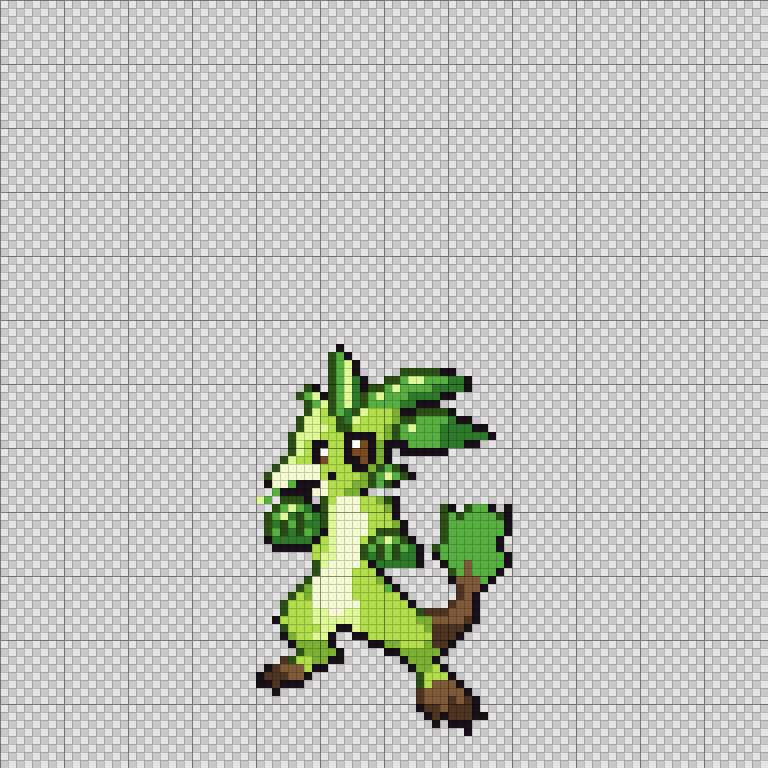
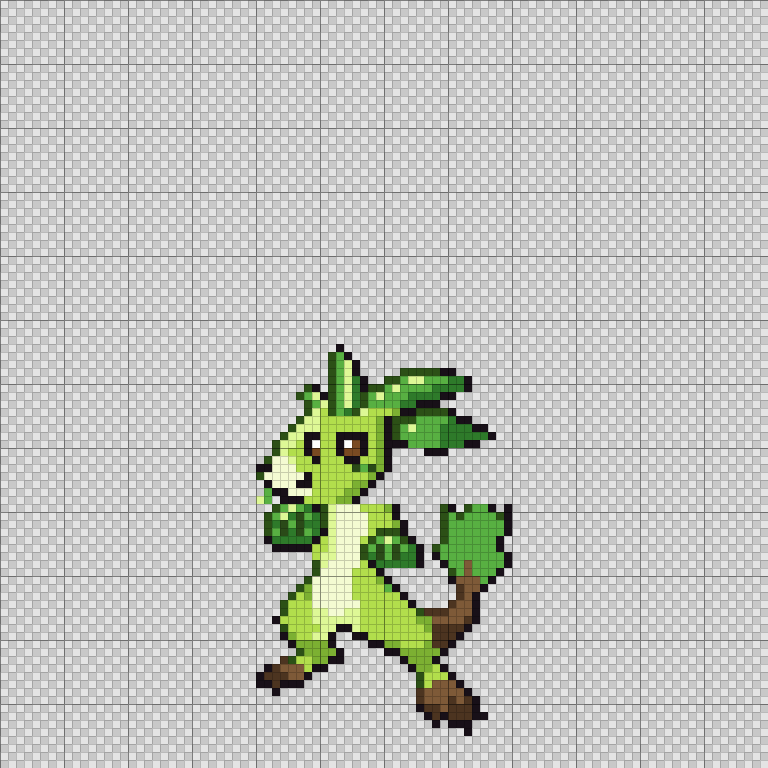
Sprigby: redraw the face with a real snout, nose and eyes
Claude-Session: https://claude.ai/code/session_01NDaBcuNY8LLNS1rzT9Z9Co

Changed region(s): [[0.3125, 0.5312, 0.5625, 0.6562]]

diff --git a/art/creatures/wip/sprigby6.px.js b/art/creatures/wip/sprigby6.px.js
@@ -30,17 +30,17 @@ sprite("sprigby6", { w: 96, h: 96 }, (c) => c.grid(32, 43, `
   .....DlLkDlLgDlLlllggggkk.......
   ......DlLDlLgDllllggkkk.........
   ......DLbDlgDLbbbskkDDDDk.......
-  .....DLLbbDgLbbbbsDDllllgkk.....
-  .....DLLLbDDbbbbsDlLlllggggkk...
-  ....DLLLbbbkkkkbsDlllllggggggk..
-  ....DLbkkbbkwekskkkllllgggkk....
-  ....DLbkwbbkeeksk.kkkkkk........
-  ...DLbbkebbkkeksk...............
-  ..DcccccbbbbkksDlDk.............
-  .DccccccbkbbbsDlLlDk............
-  .kcclkkkcbbbssDlDk..............
-  ..lkkkkccbbssk..................
-  Ll.DDDk.DbcccbbsDk..............
+  .....DLLbbbbbbbskDDDllllgkk.....
+  ....DLLLbbbbbbbskDlLlllggggkk...
+  ...DLLkkbbkkkkbskDlllllggggggk..
+  ..DLLbkwbbkwekbskkkllllgggkk....
+  ..DLbbkebbkeekbsk....kkk........
+  .DccLbbkbbbkkbbsk...............
+  kkcccbbbbbbbGlGsk...............
+  Dccccckbbbbbbbsk................
+  .kccckkbbbbbssk.................
+  .lkkcccbbbbssk..................
+  Ll.kkkbbbbssk...................
   ..DlLlgkDLcccbbbsk.....Dk.Dllk.k
   .DlLgGlgDLccccbbbk.....DlDllllDk
   .DgGlGggDLccccbbbsk....Dlllllllk
